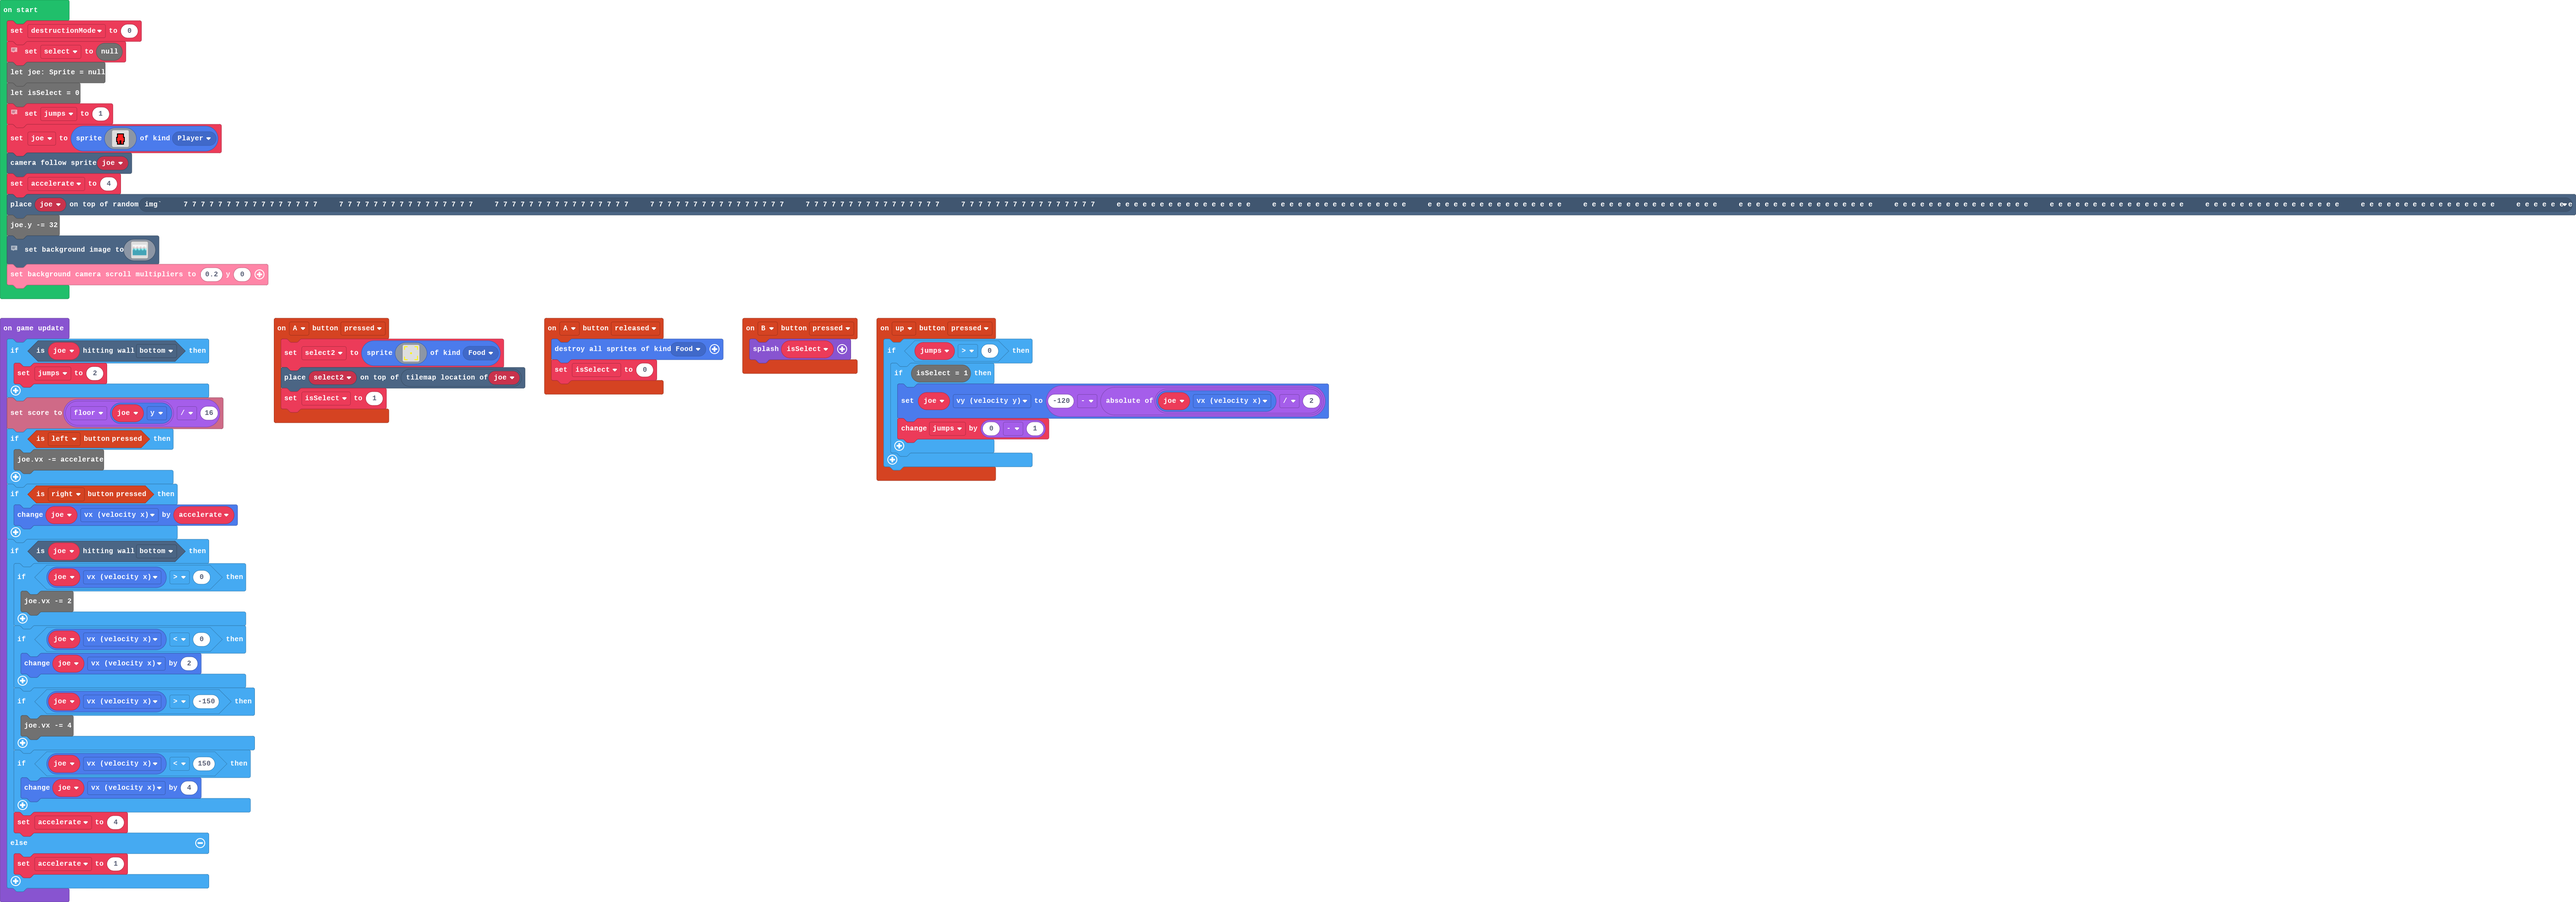
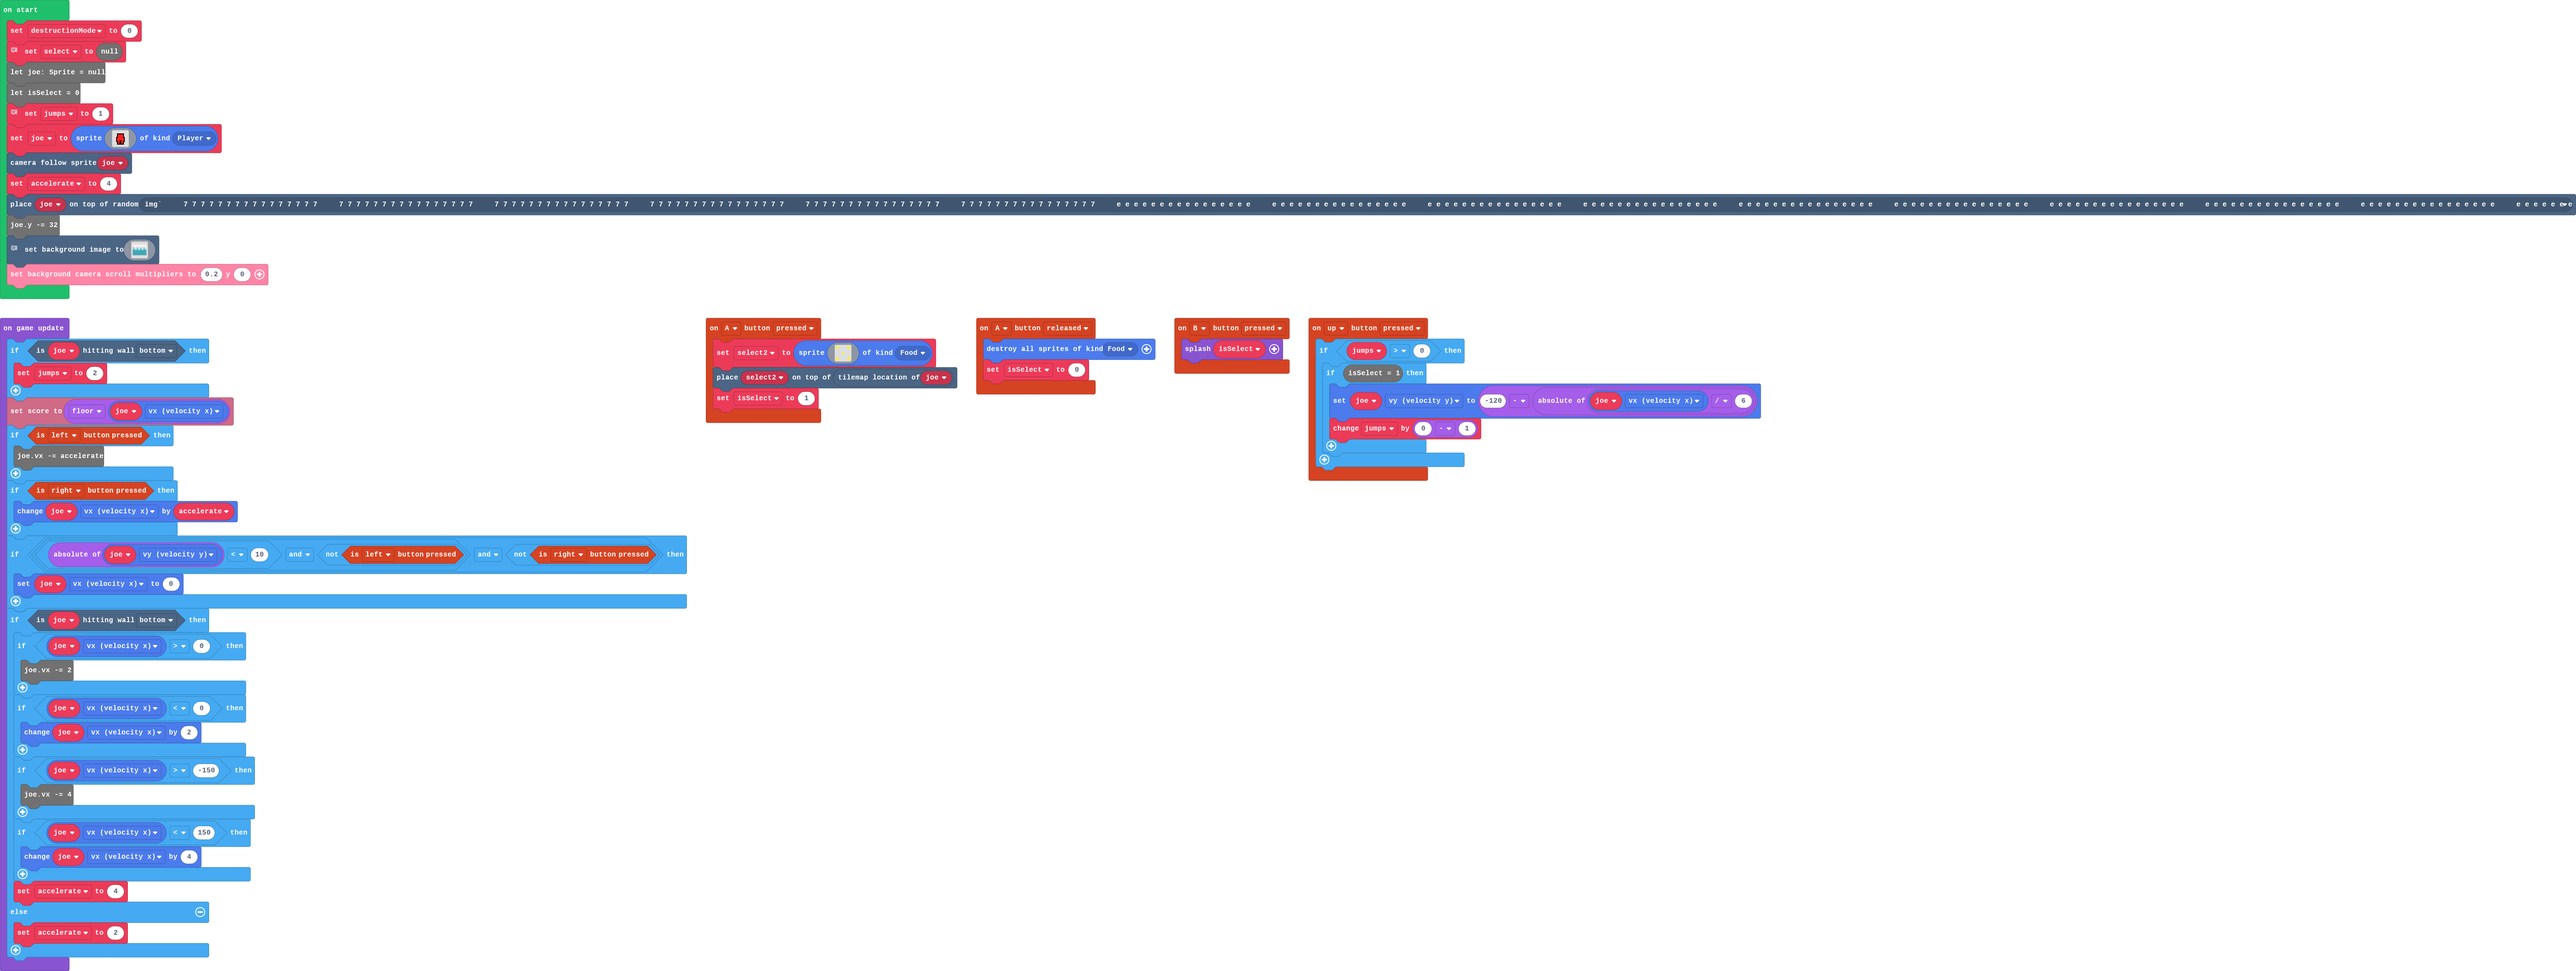
Update main.blocks, main.ts, generation.ts

Changed region(s): [[0.0, 0.0, 1.0, 0.9957]]

diff --git a/main.ts b/main.ts
@@ -1,16 +1,49 @@
-//player and movement
-let jumps = 1
-let isSelect = 0
-
 controller.up.onEvent(ControllerButtonEvent.Pressed, function () {
- if (jumps > 0) {
-     if (isSelect = 1) {
-           joe.vy = -120 - Math.abs(joe.vx / 6)
-        jumps -= 1  
-     }
- }
+    if (jumps > 0) {
+        if (isSelect = 1) {
+            joe.vy = -120 - Math.abs(joe.vx / 6)
+            jumps += 0 - 1
+        }
+    }
 })
+controller.B.onEvent(ControllerButtonEvent.Pressed, function () {
+    game.splash(isSelect)
+})
+controller.A.onEvent(ControllerButtonEvent.Pressed, function () {
+    select2 = sprites.create(img`
+        5 5 5 5 . . . . . . . . 5 5 5 5 
+        5 . . . . . . . . . . . . . . 5 
+        5 . . . . . . . . . . . . . . 5 
+        5 . . . . . . . . . . . . . . 5 
+        . . . . . . . . . . . . . . . . 
+        . . . . . . . . . . . . . . . . 
+        . . . . . . . . . . . . . . . . 
+        . . . . . . . 5 5 . . . . . . . 
+        . . . . . . . 5 5 . . . . . . . 
+        . . . . . . . . . . . . . . . . 
+        . . . . . . . . . . . . . . . . 
+        . . . . . . . . . . . . . . . 5 
+        5 . . . . . . . . . . . . . . 5 
+        5 . . . . . . . . . . . . . . 5 
+        5 . . . . . . . . . . . . . . 5 
+        5 5 5 5 . . . . . . . . 5 5 5 5 
+        `, SpriteKind.Food)
+    tiles.placeOnTile(select2, joe.tilemapLocation())
+    isSelect = 1
+})
+controller.A.onEvent(ControllerButtonEvent.Released, function () {
+    sprites.destroyAllSpritesOfKind(SpriteKind.Food)
+    isSelect = 0
+})
+let select2: Sprite = null
+let jumps = 0
+let destructionMode = 0
+// tile destruction
+let select = null
 let joe: Sprite = null
+let isSelect = 0
+// player and movement
+jumps = 1
 joe = sprites.create(img`
     . . . . . . . . . . . . . . . . 
     . . . . . . . . . . . . . . . . 
@@ -30,66 +63,27 @@ joe = sprites.create(img`
     . . . . . . . . . . . . . . . . 
     `, SpriteKind.Player)
 scene.cameraFollowSprite(joe)
-controller.B.onEvent(ControllerButtonEvent.Pressed,function() {
-game.splash(isSelect)
-})
-
 let accelerate = 4
-
-game.onUpdate(function() {
-  if (joe.isHittingTile(CollisionDirection.Bottom)) {
-      jumps = 2
-  }
-info.setScore(Math.floor(joe.y) / 16)
-if (controller.left.isPressed()){
-    joe.vx -= accelerate
-}
- if (controller.right.isPressed()) {
-     joe.vx += accelerate
-        
-
-  }
-
-  if (joe.isHittingTile(CollisionDirection.Bottom)) {
-      if (joe.vx > 0) {
-          joe.vx -= 2
-      }
-      if (joe.vx < 0) {
-          joe.vx += 2
-      }
-      if (joe.vx > -150) {
-          joe.vx -= 4
-      }
-      if (joe.vx < 150) {
-          joe.vx += 4
-      }
-     accelerate = 4 
-  } else {
-accelerate = 1
-  }
-})
-tiles.placeOnRandomTile(joe,img`
-    7 7 7 7 7 7 7 7 7 7 7 7 7 7 7 7
-    7 7 7 7 7 7 7 7 7 7 7 7 7 7 7 7
-    7 7 7 7 7 7 7 7 7 7 7 7 7 7 7 7
-    7 7 7 7 7 7 7 7 7 7 7 7 7 7 7 7
-    7 7 7 7 7 7 7 7 7 7 7 7 7 7 7 7
-    7 7 7 7 7 7 7 7 7 7 7 7 7 7 7 7
-    e e e e e e e e e e e e e e e e
-    e e e e e e e e e e e e e e e e
-    e e e e e e e e e e e e e e e e
-    e e e e e e e e e e e e e e e e
-    e e e e e e e e e e e e e e e e
-    e e e e e e e e e e e e e e e e
-    e e e e e e e e e e e e e e e e
-    e e e e e e e e e e e e e e e e
-    e e e e e e e e e e e e e e e e
-    e e e e e e e e e e e e e e e e
-`)
+tiles.placeOnRandomTile(joe, img`
+        7 7 7 7 7 7 7 7 7 7 7 7 7 7 7 7
+        7 7 7 7 7 7 7 7 7 7 7 7 7 7 7 7
+        7 7 7 7 7 7 7 7 7 7 7 7 7 7 7 7
+        7 7 7 7 7 7 7 7 7 7 7 7 7 7 7 7
+        7 7 7 7 7 7 7 7 7 7 7 7 7 7 7 7
+        7 7 7 7 7 7 7 7 7 7 7 7 7 7 7 7
+        e e e e e e e e e e e e e e e e
+        e e e e e e e e e e e e e e e e
+        e e e e e e e e e e e e e e e e
+        e e e e e e e e e e e e e e e e
+        e e e e e e e e e e e e e e e e
+        e e e e e e e e e e e e e e e e
+        e e e e e e e e e e e e e e e e
+        e e e e e e e e e e e e e e e e
+        e e e e e e e e e e e e e e e e
+        e e e e e e e e e e e e e e e e
+    `)
 joe.y -= 32
-
-//background
-
+// background
 scene.setBackgroundImage(img`
     1111111111111111111111111111111111111111111111111111111111111111111111111111111111111111111111111111111111111111111111111111111111111111111111111111111111111111
     1111111111111111111111111111111111111111111111111111111111111111111111111111111111111111111111111111111111111111111111111111111111111111111111111111111111111111
@@ -211,36 +205,37 @@ scene.setBackgroundImage(img`
     6666666666666666666666666666666666666666666666666666666666666666666666666666666666666666666666666666666666666666666666666666666666666666666666666666666666666666
     6666666666666666666666666666666666666666666666666666666666666666666666666666666666666666666666666666666666666666666666666666666666666666666666666666666666666666
     6666666666666666666666666666666666666666666666666666666666666666666666666666666666666666666666666666666666666666666666666666666666666666666666666666666666666666
-`)
+    `)
 scroller.setCameraScrollingMultipliers(0.2, 0)
-
-//tile destruction
-let select : Sprite = null
-let destructionMode = 0 
-
-controller.A.onEvent(ControllerButtonEvent.Pressed, function() {
-    let select = sprites.create(img`
-        5 5 5 5 . . . . . . . . 5 5 5 5
-        5 . . . . . . . . . . . . . . 5
-        5 . . . . . . . . . . . . . . 5
-        5 . . . . . . . . . . . . . . 5
-        . . . . . . . . . . . . . . . .
-        . . . . . . . . . . . . . . . .
-        . . . . . . . . . . . . . . . .
-        . . . . . . . 5 5 . . . . . . .
-        . . . . . . . 5 5 . . . . . . .
-        . . . . . . . . . . . . . . . .
-        . . . . . . . . . . . . . . . .
-        . . . . . . . . . . . . . . . 5
-        5 . . . . . . . . . . . . . . 5
-        5 . . . . . . . . . . . . . . 5
-        5 . . . . . . . . . . . . . . 5
-        5 5 5 5 . . . . . . . . 5 5 5 5
-    `,SpriteKind.Food)
-    tiles.placeOnTile(select, joe.tilemapLocation())
-    isSelect = 1
-})
-controller.A.onEvent(ControllerButtonEvent.Released,function() {    
-    sprites.destroyAllSpritesOfKind(SpriteKind.Food)
-    isSelect = 0
+game.onUpdate(function () {
+    if (joe.isHittingTile(CollisionDirection.Bottom)) {
+        jumps = 2
+    }
+    info.setScore(Math.floor(joe.vx))
+    if (controller.left.isPressed()) {
+        joe.vx -= accelerate
+    }
+    if (controller.right.isPressed()) {
+        joe.vx += accelerate
+    }
+    if (Math.abs(joe.vy) < 10 && !(controller.left.isPressed()) && !(controller.right.isPressed())) {
+        joe.vx = 0
+    }
+    if (joe.isHittingTile(CollisionDirection.Bottom)) {
+        if (joe.vx > 0) {
+            joe.vx -= 2
+        }
+        if (joe.vx < 0) {
+            joe.vx += 2
+        }
+        if (joe.vx > -150) {
+            joe.vx -= 4
+        }
+        if (joe.vx < 150) {
+            joe.vx += 4
+        }
+        accelerate = 4
+    } else {
+        accelerate = 2
+    }
 })

diff --git a/generation.ts b/generation.ts
@@ -1,5 +1,5 @@
 // Add your code here
-let height = 8
+let height = 4
 
 tiles.setCurrentTilemap(tilemap`level1`)
 
